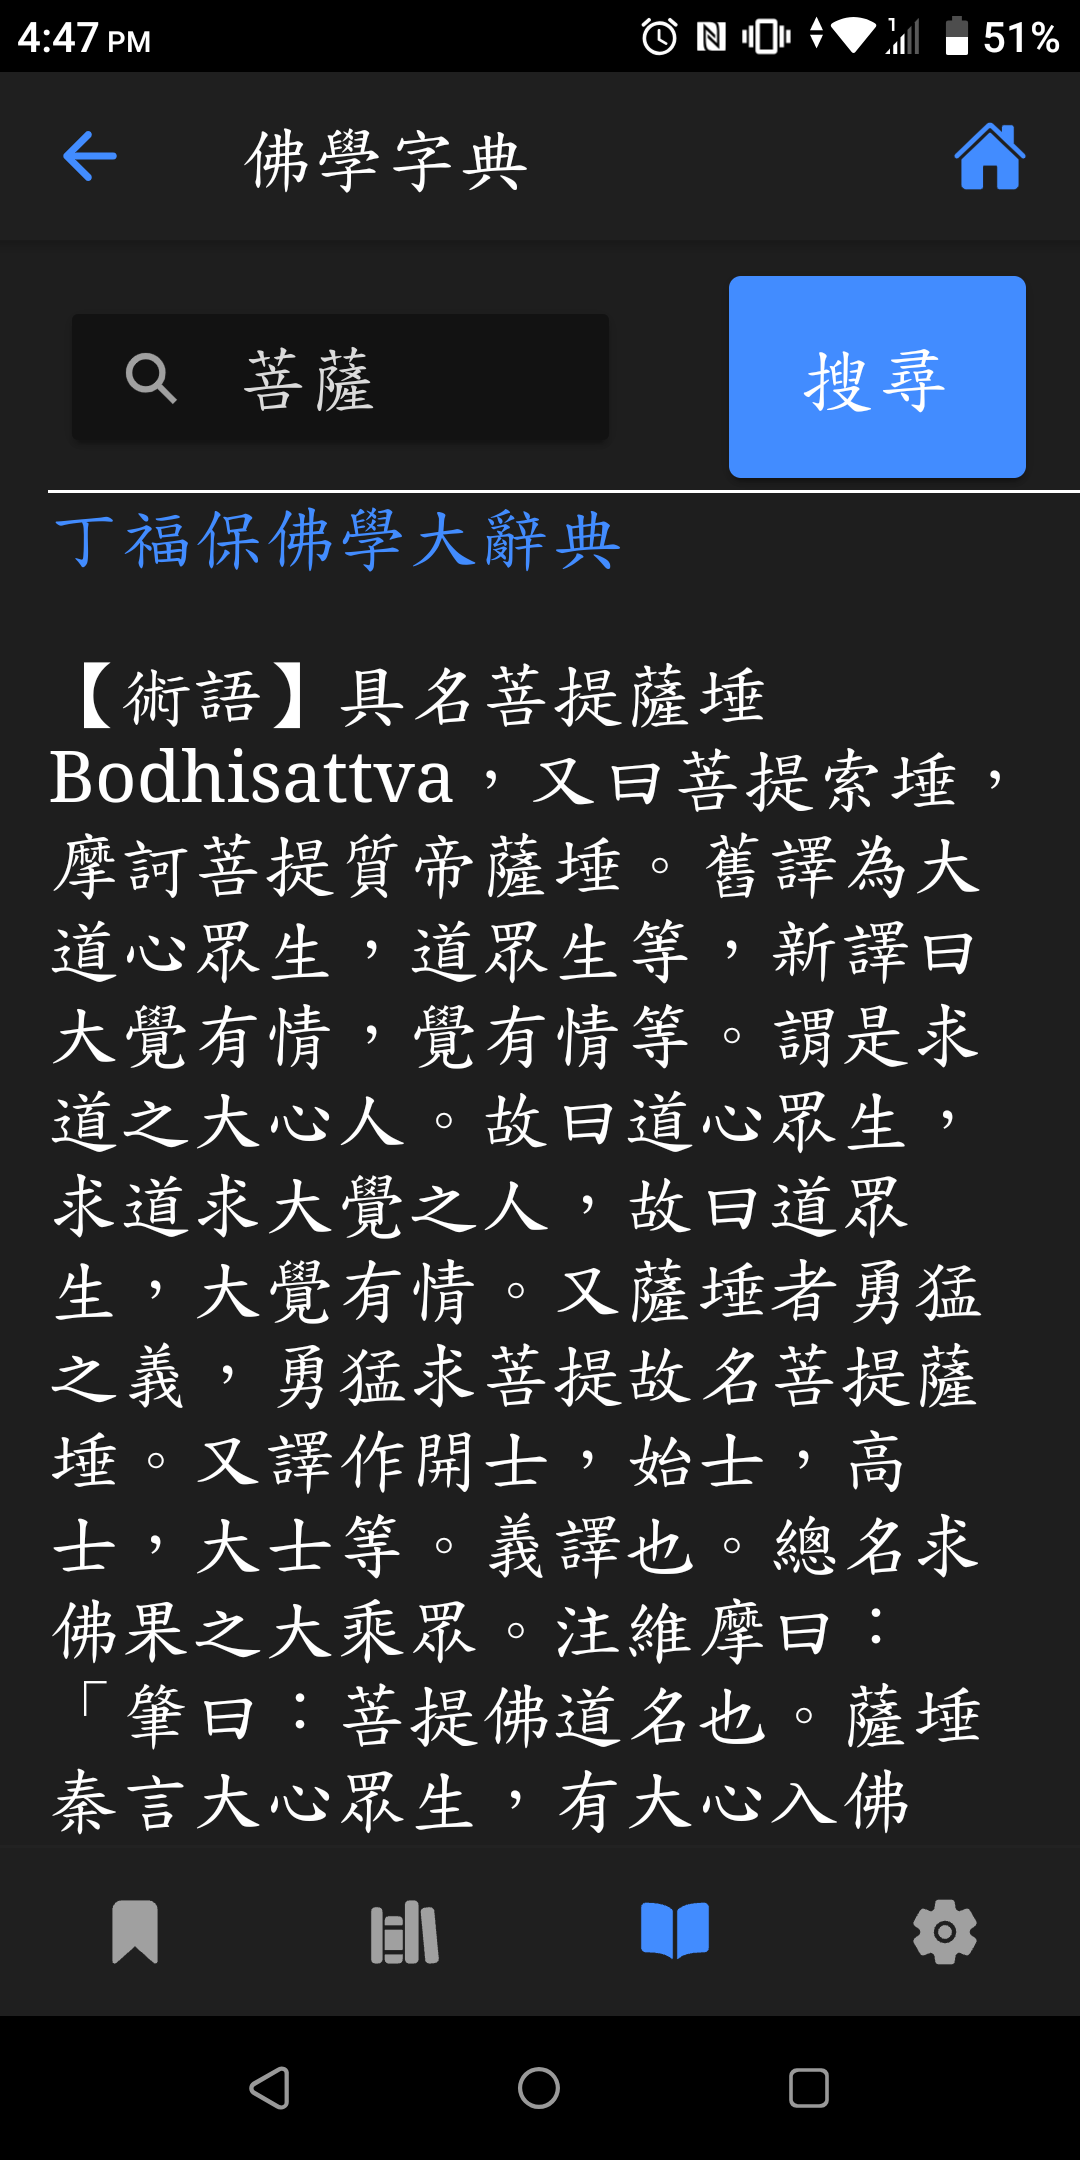
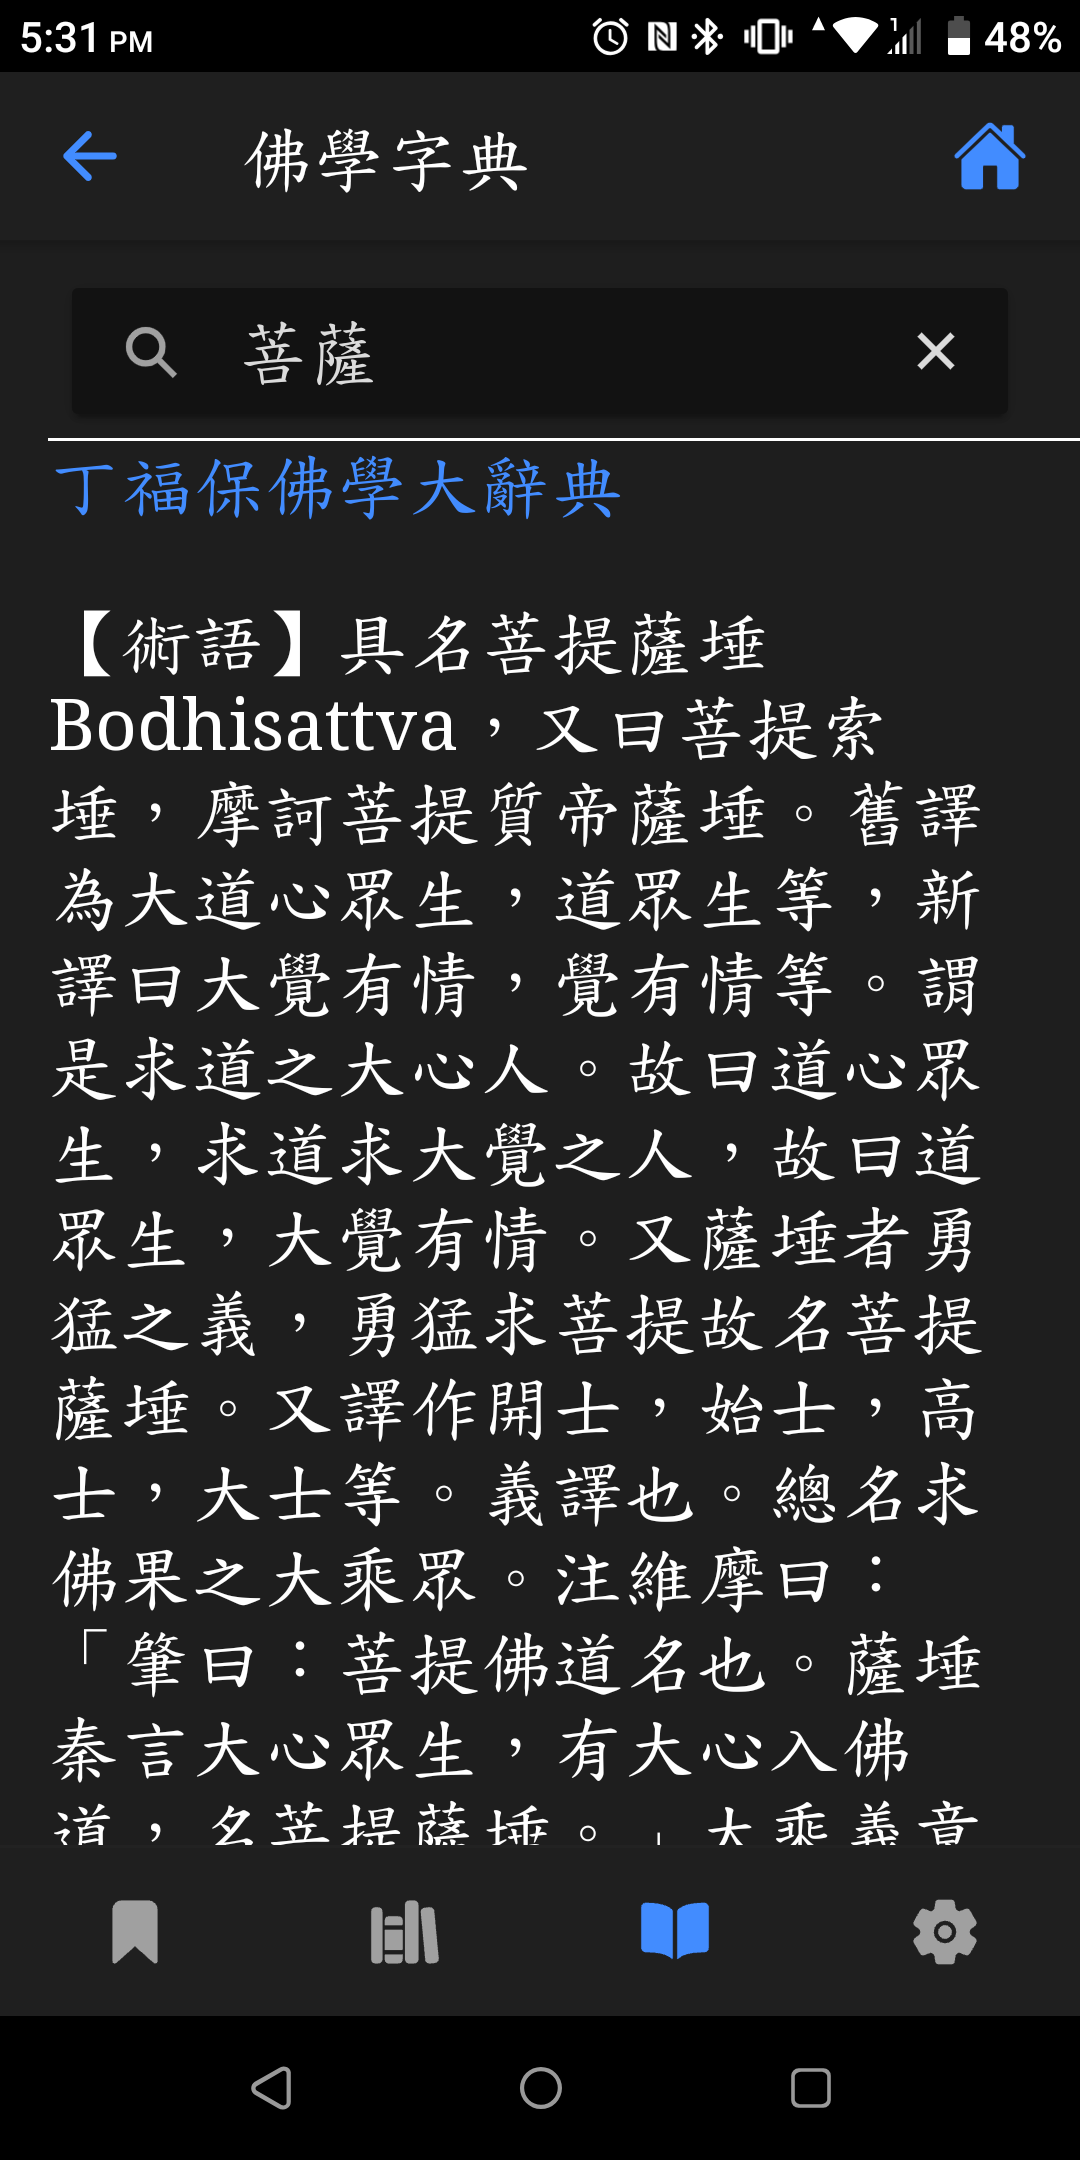
* Remove a redundant button.

diff --git a/src/pages/DictionaryPage.tsx b/src/pages/DictionaryPage.tsx
@@ -99,9 +99,10 @@ class _DictionaryPage extends React.Component<PageProps, State> {
                     this.lookupDict(this.state.keyword);
                   }
                 }} />
+                {/*
               <IonButton slot='end' size='large' style={{ fontSize: 'var(--ui-font-size)' }} onClick={e => {
                 this.lookupDict(this.state.keyword);
-              }}>搜尋</IonButton>
+              }}>搜尋</IonButton>*/}
             </IonItem>
             {this.getRows()}
           </IonList>
